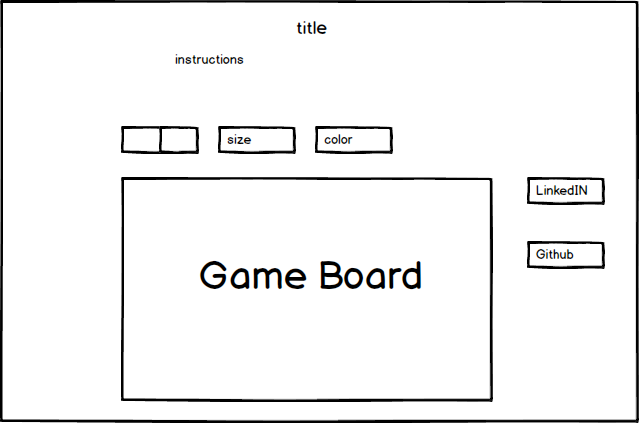
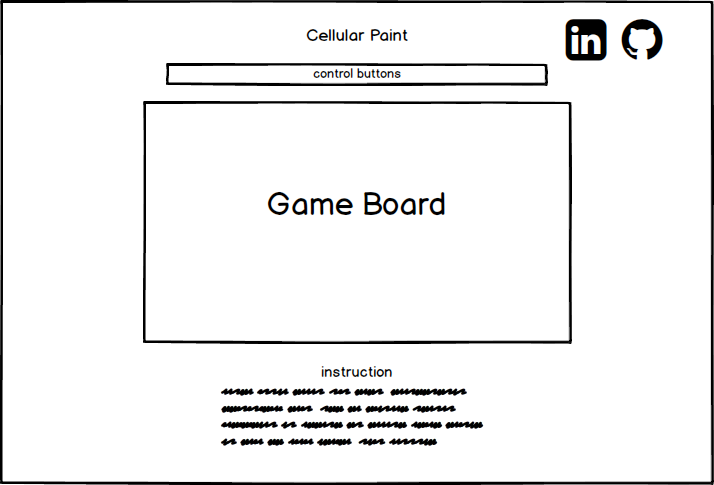
update readme

diff --git a/index.html b/index.html
@@ -12,6 +12,14 @@
     <script src="./lib/board.js"></script>
     <script src="./lib/view.js"></script>
     <script src="./lib/options.js"></script>
+    <div class="header">
+      <a target="_blank" href="https://www.linkedin.com/in/fan-song">
+        <img class="linkedin" src="http://res.cloudinary.com/cloudfan/image/upload/v1479489720/linkedin_cbn75w.ico" alt="LinkedIn of Fan Song"></img>
+      </a>
+      <a target="_blank" href="https://github.com/fan222">
+        <img class="github" src="http://res.cloudinary.com/cloudfan/image/upload/v1479490104/github_csivum.png" alt="Github of Fan Song"></img>
+      </a>
+    </div>
     <h1>Cellular Paint</h1>
     <div class="options-container">
       <div class="buttons">

diff --git a/assets/application.css b/assets/application.css
@@ -115,3 +115,20 @@ h1 {
 .author {
   margin-top: 10px;
 }
+
+img {
+  width: 43px;
+  height: 43px;
+}
+
+.github {
+  position: fixed;
+  top: 20px;
+  right: 100px;
+}
+
+.linkedin {
+  position: fixed;
+  top: 20px;
+  right: 40px;
+}

diff --git a/README.md b/README.md
@@ -2,15 +2,16 @@
 
 ## Background
 
-Conway's Game of Life is an example of the concept of cellular automata. Each cell on a gird is either dead or alive when the game begins. The state of that cell in next step depends on the state of all its neighborhood.
+Cyclic Cellular Automata (CCA) exhibit complex self-organization by iteration of an extremely simple update rule. A specified number of Colors are arranged cyclically in a "color wheel." Each color can only advance to the next, the last cycling to 0. Each update a cell's color advances by 1 if there are at least Threshold cells of the next color within its neighbor set of size Range in extended Moore or von Neumann neighborhood. These simple dynamics exhibit complex self-organization starting from randomness.
+
 
 
 ## MVP
 
 - [ ] State, pause and reset the game.
+- [ ] User can choose the type of Cyclic Cellular Automata.
 - [ ] User can paint the cells while the game is running.
-- [ ] User can chose the size and color of their paint.
-- [ ] Select squares to be alive at the beginning
+- [ ] User can chose the size and color of their paint brush.
 
 
 ## Wireframes
@@ -23,23 +24,22 @@ This app will have a game board, game controls and links to my LinkedIn and Gith
 ## Architecture and Technologies
 
   - This app will use Vanilla JavaScript and jquery for overall logic and structure.
-  - Webpack to bundle and serve up the various scripts.
 
-  * In additon to the webpack entry file, there will alse be board.js, view.js, cell.js, options.js and paint.js files
-  * The update logic of cells lives in cell.js. And a Board object will be passed to cell object.
-  * paint.js has the function that responds to mouse hover and repaint cell.
-  * board has a function to loop over all cell and call cell update function. And another function to draw the board with canvas.
+  * There will be board.js, view.js, options.js and index.html files
+  * The update logic of cells lives in board.js.
+  * Board has a function to loop over all cell and update cells. And another function to draw the board with canvas.
+  * view.js has the function that responds to mouse hover and repaint cell.
   * view.js integrate all the information and render the board to html.
+  * options.js responds to user input on controls buttons and then update parameters.
 
 ## Implementation Timeline
 
-**Day 1**. Setup all necessary Node modules.
+**Day 1**.
 
-**Day 2**. Finish board and cell class.
-Board setup, update and draw functions. Cell update logic.
+**Day 2**.
 
-**Day 3**. Finish user's paint class.
-In paint.js, finish mouse hover logic and integrate paint with board and cell.
+**Day 3**.
 
-**Day 4**. Polish style and color.
-Style the interface and provide adequate instructions
+**Day 4**.
+
+## Features
